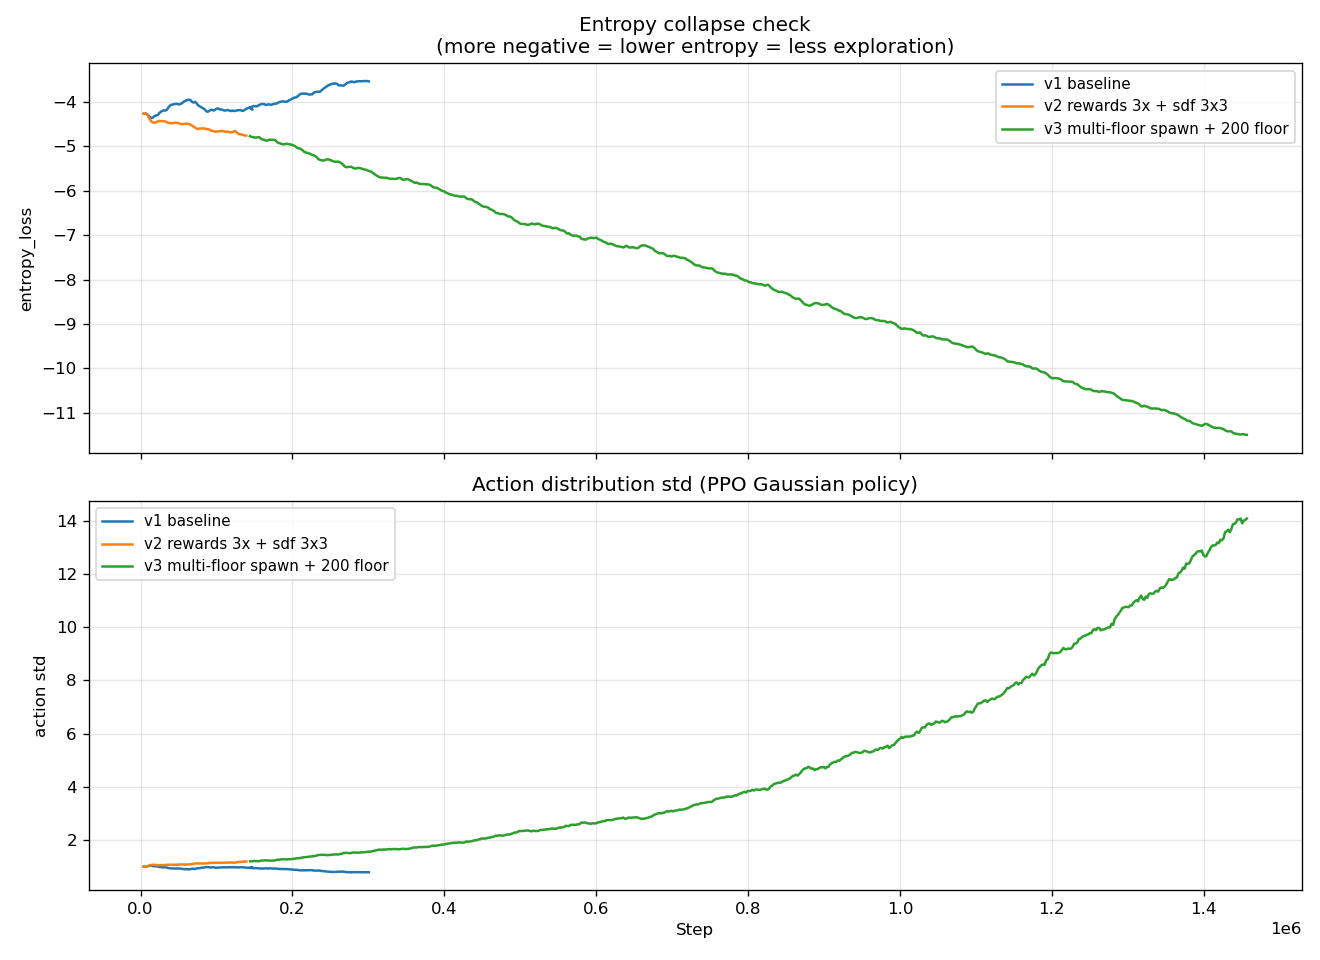
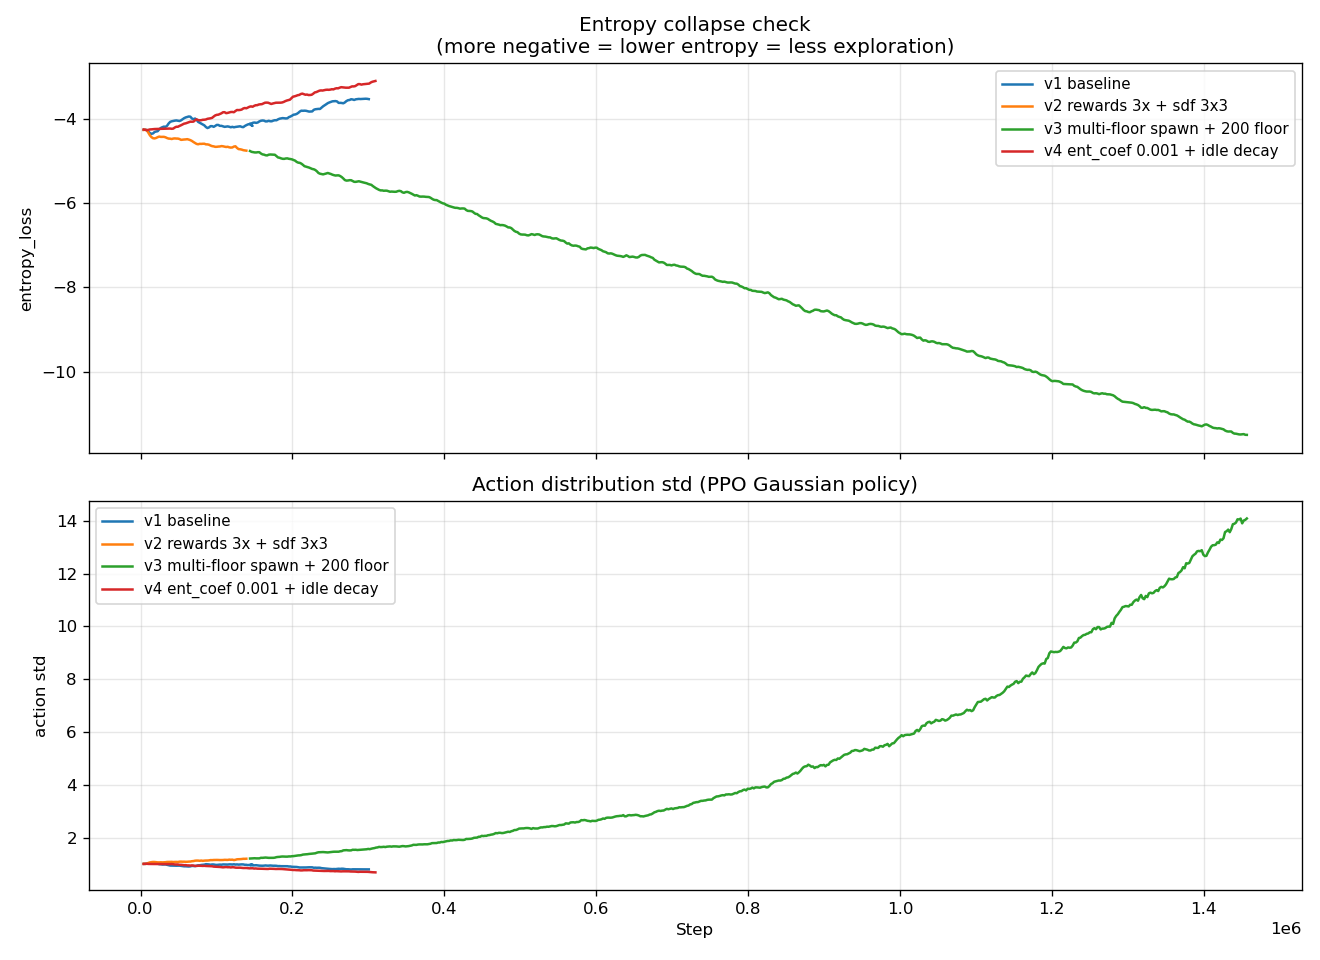
algo/ppo: v5 — PPO update stabilization (clip/epochs/batch/gae)
v4 stopped at 310k. Plot diagnosis:
* GOOD: entropy fix held — std 1->0.7 (v3 had 1->14 explosion)
* BAD: reward still peak-then-regress, in v4's case "fast peak +85 at
  60-100k, then oscillates +30/+85 through 310k mean +50"

So the entropy was never the only problem. With high-magnitude rewards
(room +50, floor +200, idle -0.5, collision -10), PPO's default
clip_range=0.2 + n_epochs=10 lets each rollout shift the policy enough
that the next rollout's data distribution is meaningfully different —
classic on-policy thrashing.

v5 keeps all v4 env changes (idle decay + multi-floor spawn + bumped
rewards) and only tunes PPO update mechanics for stability:
* clip_range  0.2 -> 0.1   (smaller per-step policy shift)
* n_epochs    10  -> 5     (fewer gradient passes per rollout)
* batch_size  64  -> 256   (lower-variance gradient estimate)
* gae_lambda  0.95-> 0.9   (slightly more bias for less variance)
* ent_coef    0.001 (kept — v4 proved this fixes std explosion)

Fresh start to runs/ppo_v5_stable/ — v4's policy/value would be a poor
starting point because the gradient dynamics it expects no longer match.

Plan: train to 350k, plot/eval, decide v6.
Plots regenerated to include v4 in docs/figures/.

diff --git a/scripts/plot_training.py b/scripts/plot_training.py
@@ -24,6 +24,7 @@ VERSIONS = {
     "v1 baseline": REPO / "runs/ppo/tb/PPO_4",
     "v2 rewards 3x + sdf 3x3": REPO / "runs/ppo_v2_explore/tb/PPO_1",
     "v3 multi-floor spawn + 200 floor": REPO / "runs/ppo_v3_floors/tb/PPO_0",
+    "v4 ent_coef 0.001 + idle decay": REPO / "runs/ppo_v4_low_ent/tb/PPO_1",
 }
 
 METRICS = [

diff --git a/docs/PROGRESS.md b/docs/PROGRESS.md
@@ -358,3 +358,56 @@ Tüm grafikler `docs/figures/`:
 - `reward_curve_summary.png` (tek panel reward özet)
 - `v3_plateau_zoom.png` (regression görünür)
 - `entropy_zoom.png` (KRİTİK: std explosion)
+
+### v4 → v5 pivot: PPO update stabilization (saat 02:00)
+
+#### Veri (v4 fresh, 310k step'te durduruldu)
+
+`scripts/plot_training.py` v4 dahil yeniden koşturuldu. Bulgular:
+
+1. **Entropy fix tutmuş** ✓ — v4'te std 1 → 0.7'ye **düşüyor** (v3'te
+   1 → 14 explode etmişti). entropy_loss -4.3 → -3.0 (yukarı = az
+   entropi). ent_coef 0.001 doğru çağrı.
+
+2. **Reward hâlâ peak-then-regress paterni** ⚠ — v4 60-100k civarı peak
+   ~+85'e ulaşıyor, sonra 200-310k arası **+30 ile +85 arası yüksek
+   varyans osilasyon** ortalama ~+50. Yani v4 daha da **kötü** (yüksek
+   varyans), reward summary grafiğinden net görünüyor.
+
+3. v3 ile karşılaştırma:
+   - v3: smooth ama yavaş peak (440k +95) sonra düşüş +45
+   - v4: hızlı peak (80k +85) sonra osilasyon +30/+85 mean +50
+
+#### Sebep teşhisi
+
+Entropy düzelmesine rağmen reward osilasyonu sürüyor → sorun **PPO update
+mechanics**, exploration değil. Yüksek magnitudeli reward (oda +50, kat
++200, idle decay -0.5, çarpışma -10) → yüksek varyans advantage → büyük
+policy gradient güncellemeleri → her n_steps=2048 rollout'tan sonra
+policy fazla değişiyor → sonraki rollout'ta data distribution kayıyor
+→ önceki öğrenmeyi unutuyor.
+
+PPO'nun bunu önlemek için clip_range=0.2 mekanizması var ama bizim
+reward scale'imizde 0.2 hâlâ büyük. Ek olarak n_epochs=10 ile her
+rollout'a 10 kez gradient gönderilmesi overfit'i derinleştiriyor.
+
+#### v5 müdahaleleri (env'e dokunma yok, sadece PPO yaml)
+
+| Param | v4 | v5 | Neden |
+|---|---|---|---|
+| `clip_range` | 0.2 | **0.1** | Per-step policy shift'i sınırla, overshoot durdur |
+| `n_epochs` | 10 | **5** | Her rollout'tan daha az gradient pass, daha az overfit |
+| `batch_size` | 64 | **256** | Minibatch gradient'i daha düşük varyanslı |
+| `gae_lambda` | 0.95 | **0.9** | Advantage estimate biraz daha bias / az varyans |
+| `ent_coef` | 0.001 | 0.001 | v4'te tuttu, koru |
+
+Idle decay env değişikliği aynen v4'tekiyle korundu. Multi-floor spawn
++ bumped rewards aynı.
+
+#### v5 run plan'ı
+
+Saat 02:05 başladı: sıfırdan 350k watcher (v3/v4'te ne olduğunu anlamış
+olduğumuz step sayısı), sonra durup eval + plot + (gerekirse) v6.
+Beklenti: peak biraz daha geç gelir ama daha smooth, düşüşsüz / az
+varyanslı plateau. Eğer hâlâ osilasyon varsa, v6'da reward
+normalization (VecNormalize) veya lr schedule eklemek gerekecek.
